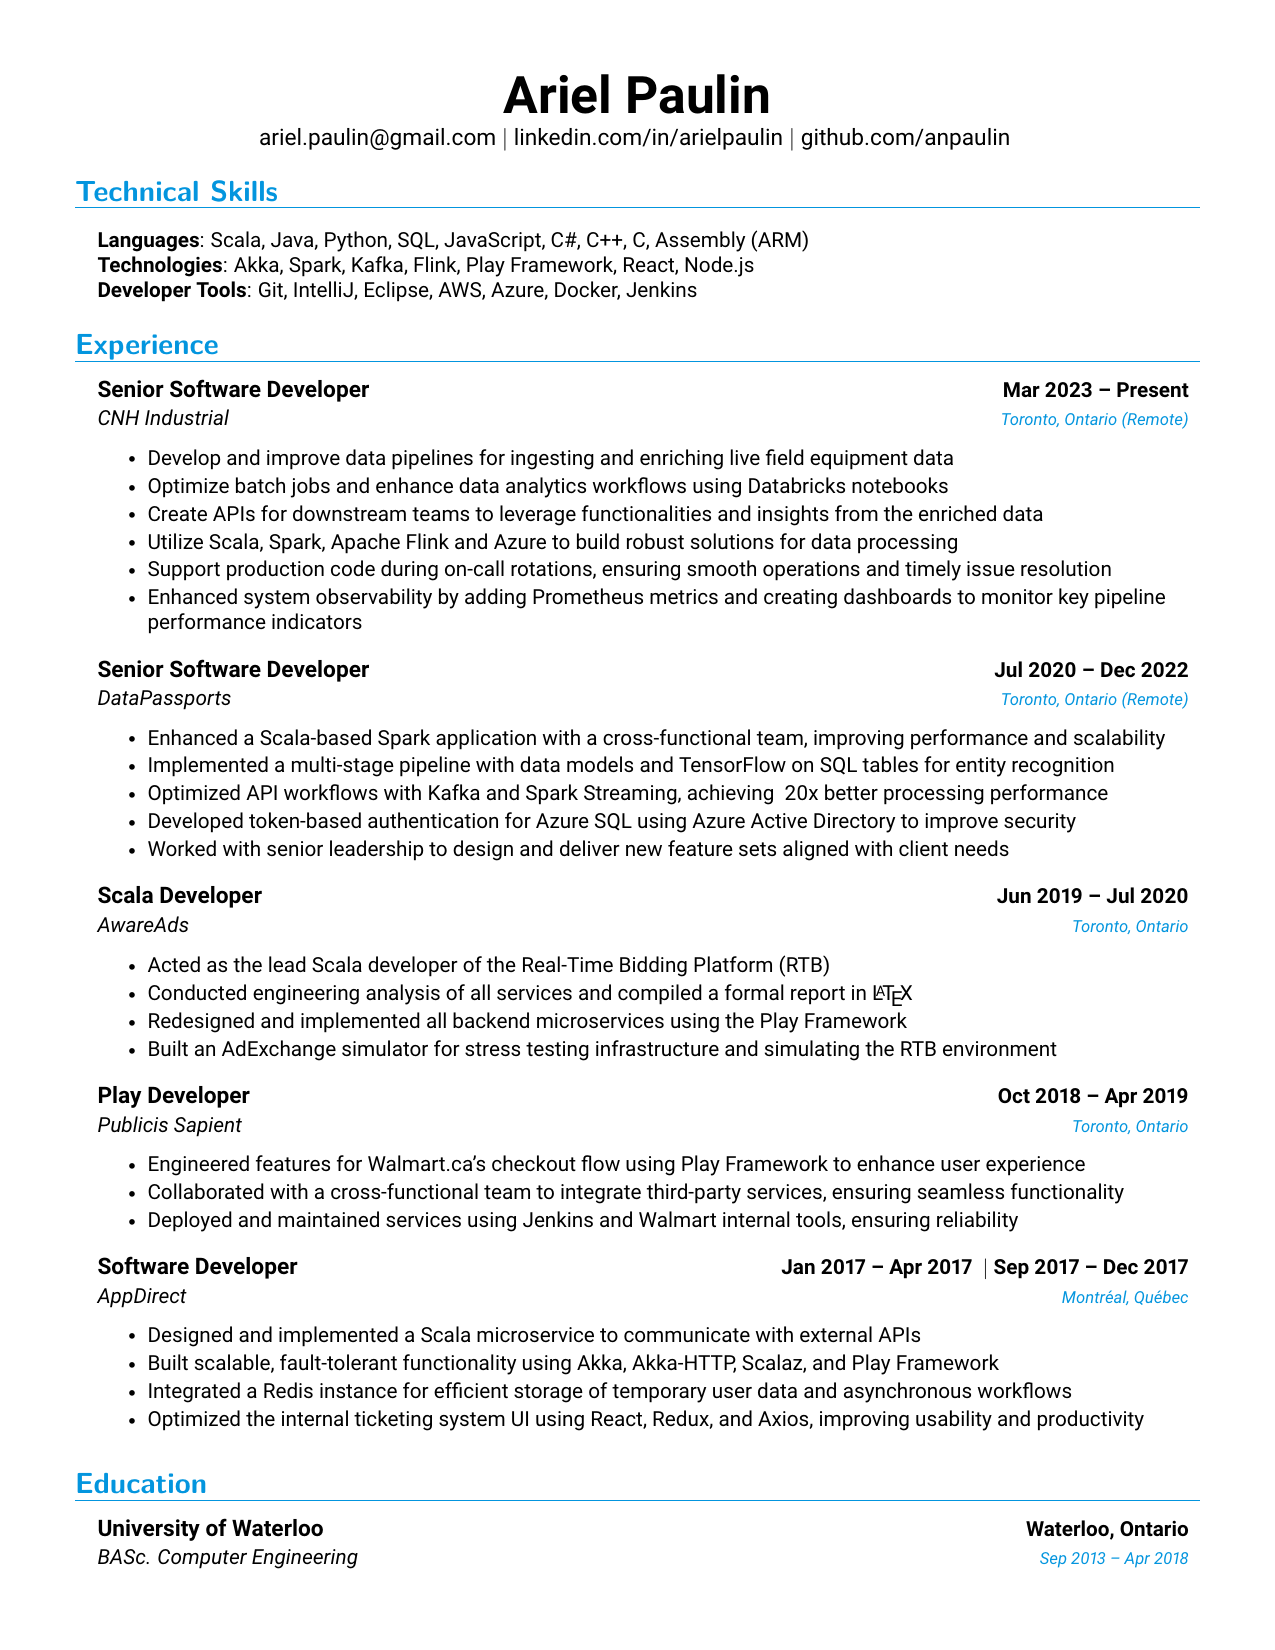
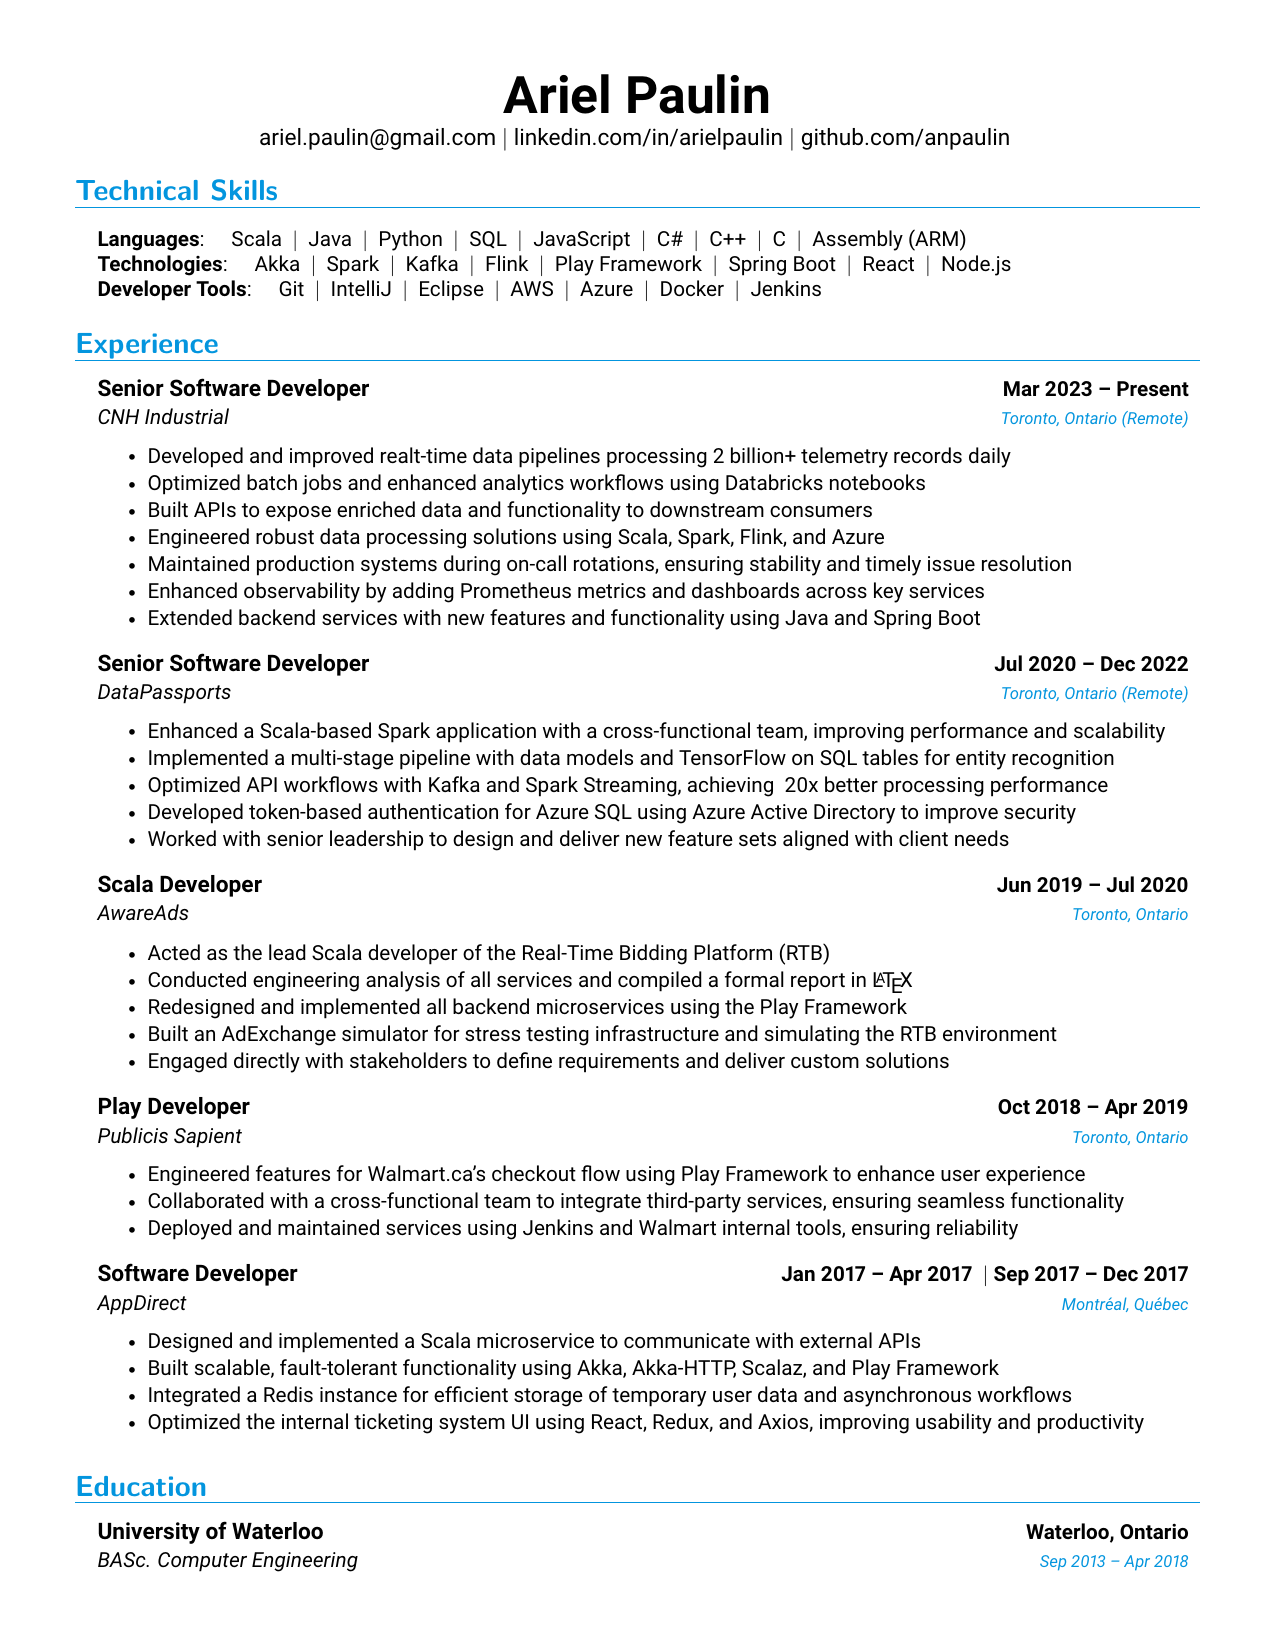
reformat a bit, add extra points to CNH & Aware Ads

diff --git a/ariel_paulin.tex b/ariel_paulin.tex
@@ -133,13 +133,13 @@
 %
 %-----------PROGRAMMING SKILLS-----------
 \section{Technical Skills}
- \begin{itemize}[leftmargin=0.15in, label={}]
-    \small{\item{
-     \textbf{Languages}{: Scala, Java, Python, SQL, JavaScript, C\#, C++, C, Assembly (ARM)} \\
-     \textbf{Technologies}{: Akka, Spark, Kafka, Flink, Play Framework, React, Node.js} \\
-     \textbf{Developer Tools}{: Git, IntelliJ, Eclipse, AWS, Azure, Docker, Jenkins}
-    }}
- \end{itemize}
+\begin{itemize}[leftmargin=0.15in, label={}]
+  \small{\item{
+    \textbf{Languages}: \quad Scala \ \textbf{\textbar} \ Java \ \textbf{\textbar} \ Python \ \textbf{\textbar} \ SQL \ \textbf{\textbar} \ JavaScript \ \textbf{\textbar} \ C\# \ \textbf{\textbar} \ C++ \ \textbf{\textbar} \ C \ \textbf{\textbar} \ Assembly (ARM) \\
+    \textbf{Technologies}: \quad Akka \ \textbf{\textbar} \ Spark \ \textbf{\textbar} \ Kafka \ \textbf{\textbar} \ Flink \ \textbf{\textbar} \ Play Framework \ \textbf{\textbar} \ Spring Boot \ \textbf{\textbar} \ React \ \textbf{\textbar} \ Node.js \\
+    \textbf{Developer Tools}: \quad Git \ \textbf{\textbar} \ IntelliJ \ \textbf{\textbar} \ Eclipse \ \textbf{\textbar} \ AWS \ \textbf{\textbar} \ Azure \ \textbf{\textbar} \ Docker \ \textbf{\textbar} \ Jenkins
+  }}
+\end{itemize}
 
 
 %-----------EXPERIENCE-----------
@@ -150,13 +150,13 @@
       {Senior Software Developer}{Mar 2023 -- Present}
       {CNH Industrial}{Toronto, Ontario (Remote)}
       \resumeItemListStart
-         \resumeItem{Develop and improve data pipelines for ingesting and enriching live field equipment data}
-         \resumeItem{Optimize batch jobs and enhance data analytics workflows using Databricks notebooks}
-         \resumeItem{Create APIs for downstream teams to leverage functionalities and insights from the enriched data}
-         \resumeItem{Utilize Scala, Spark, Apache Flink and Azure to build robust solutions for data processing}
-		 \resumeItem{Support production code during on-call rotations, ensuring smooth operations and timely issue resolution}
-		\resumeItem{Enhanced system observability by adding Prometheus metrics and creating dashboards to monitor key pipeline performance indicators}
-
+\resumeItem{Developed and improved realt-time data pipelines processing 2 billion+ telemetry records daily}
+\resumeItem{Optimized batch jobs and enhanced analytics workflows using Databricks notebooks}
+\resumeItem{Built APIs to expose enriched data and functionality to downstream consumers}
+\resumeItem{Engineered robust data processing solutions using Scala, Spark, Flink, and Azure}
+\resumeItem{Maintained production systems during on-call rotations, ensuring stability and timely issue resolution}
+\resumeItem{Enhanced observability by adding Prometheus metrics and dashboards across key services}
+\resumeItem{Extended backend services with new features and functionality using Java and Spring Boot}
       \resumeItemListEnd
       
 \resumeSubheading
@@ -178,6 +178,7 @@
     \resumeItem{Conducted engineering analysis of all services and compiled a formal report in \LaTeX}
     \resumeItem{Redesigned and implemented all backend microservices using the Play Framework}
     \resumeItem{Built an AdExchange simulator for stress testing infrastructure and simulating the RTB environment}
+    \resumeItem{Engaged directly with stakeholders to define requirements and deliver custom solutions}
   \resumeItemListEnd
 
 \resumeSubheading
